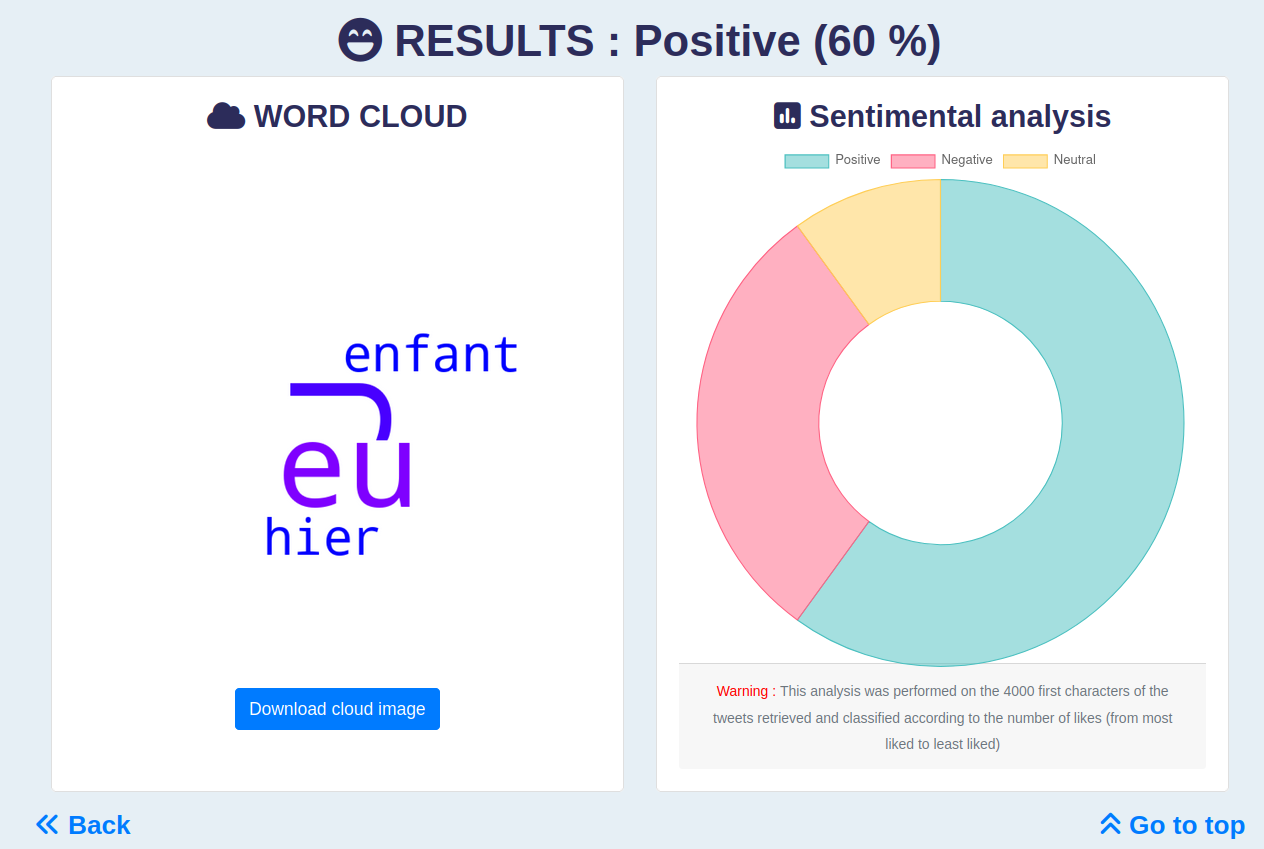
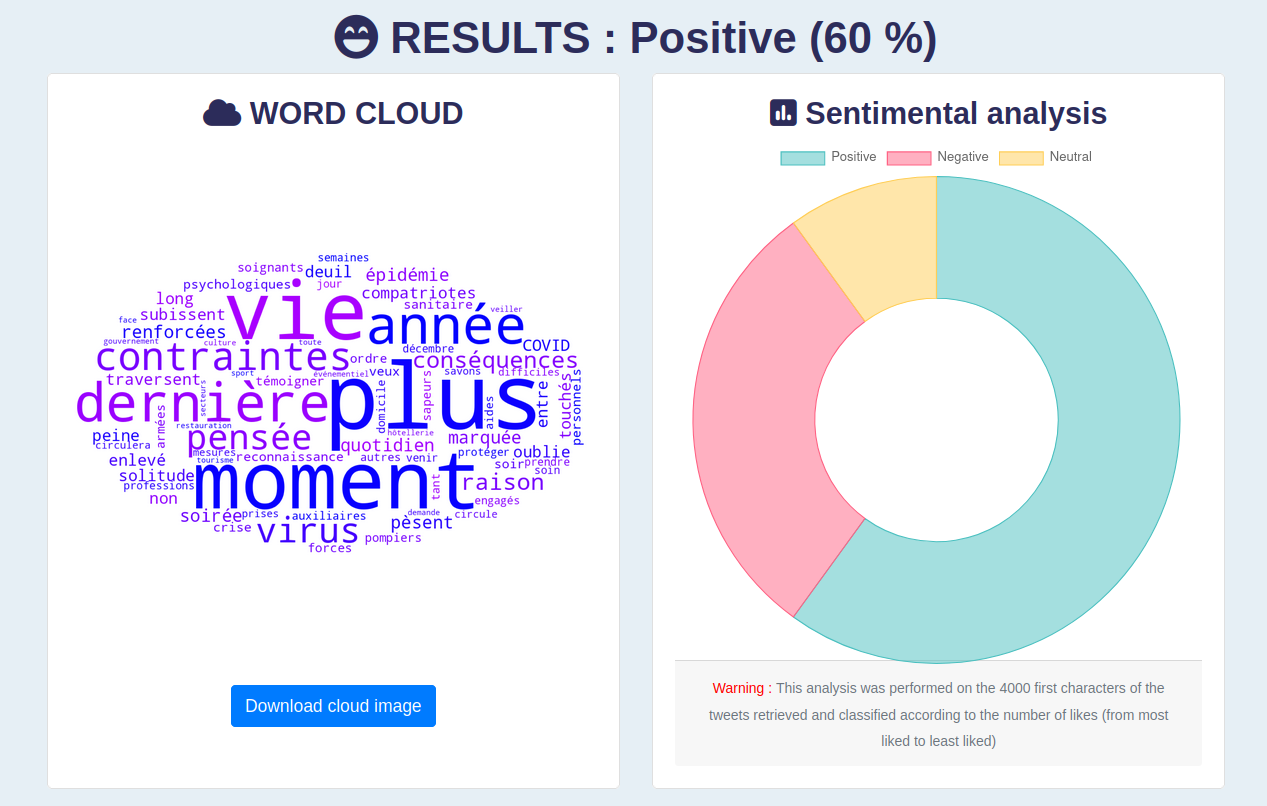
readme final

diff --git a/text_analysis/base/templates/about.html b/text_analysis/base/templates/about.html
@@ -26,10 +26,10 @@
 </p>
 <br>
 <p style="text-align:center;"> <h3>Emad Darwich</h3> </p> 
-<img src="{% static 'base/images/emad.jpg' %}" class="bd-placeholder-img rounded-circle" width="140" height="140" /> <br>
+<img src="{% static 'base/images/emad.png' %}" class="bd-placeholder-img rounded-circle" width="140" height="140" /> <br>
 <br>
 
-<p style="text-align:justify;"> Passionate about data analysis, new technologies and curious to understand how they can be how these can be applied in different fields, Emad 
+<p style="text-align:justify;"> Passionate about data analysis, new technologies and curious to understand how they can be applied in different fields, Emad 
     is specialized in spatial statistics and its spatial statistics and its applications in the epidemiological and environmental environmental fields. 
     His academic, professional and volunteer experiences have allowed him to acquire and volunteer experiences have given him a strong ability to present, 
     communicate and disseminate information in a way that is clear, effective and beneficial to end users.<br> <br>
@@ -42,7 +42,7 @@
 
 <br>
 <p style="text-align:center;"> <h3>Marion Studer</h3> </p> 
-<img src="{% static 'base/images/soccer.png' %}" class="bd-placeholder-img rounded-circle" width="140" height="140" /><br>
+<img src="{% static 'base/images/marion.png' %}" class="bd-placeholder-img rounded-circle" width="140" height="140" /><br>
 <br>
 
 <p style="text-align:justify;"> Passionate about exploring new subjects, research and studies in social sciences, her doctoral studies allowed her to 

diff --git a/text_analysis/base/templates/home.html b/text_analysis/base/templates/home.html
@@ -41,7 +41,7 @@
     <div class="col-lg-4">
       {% comment %} <svg class="bd-placeholder-img rounded-circle" width="140" height="140" xmlns="http://www.w3.org/2000/svg" role="img" aria-label="Placeholder: 140x140" preserveAspectRatio="xMidYMid slice" focusable="false"><title>Placeholder</title><rect width="100%" height="100%" fill="#777"></rect><text x="50%" y="50%" fill="#777" dy=".3em">140x140</text></svg> {% endcomment %}
       <img src="{% static 'base/images/url.jpg' %}" class="bd-placeholder-img rounded-circle" width="140" height="140" />
-      <h2 class="fw-normal">URL Text Analysis</h2>
+      <h2 class="fw-normal">URL text analysis</h2>
       <p style="text-align: justify;">In this application, you can paste an URL link (for example from an online media). Then an AI model analyzes and summarizes the content of the website page to give the general sentiment on the subject.</p>
       <p><a class="btn btn-secondary" href={% url 'upload_file' %}>View details »</a></p>
     </div><!-- /.col-lg-4 -->

diff --git a/text_analysis/base/templates/upload_file.html b/text_analysis/base/templates/upload_file.html
@@ -8,12 +8,17 @@
 
 <form action="upload_file_result">
     {% csrf_token %}
+
+    <h1 style="color:rgb(44, 44, 90); font-weight: 700;">
+      <i class="fa-brands fa-internet-explorer"></i> URL text analysis 
+    </h1>
+
     <div class="row g-2">
 
       <!-- all_words -->
         <div class="col-md">
           <div class="form-floating">
-            <label for="floatingInputGrid">URL : </label>
+            <label for="floatingInputGrid">Enter your URL</label>
             <input type="text" class="form-control" id="myFile" multiple onchange="myfunction()" placeholder="Ex: https://www.bfmtv.com/*" name="file" required>
             <p id = "demo"></p>
         </div>

diff --git a/text_analysis/templates/includes/header.html b/text_analysis/templates/includes/header.html
@@ -9,7 +9,7 @@
       <ul class="nav col-12 col-md-auto mb-2 justify-content-center mb-md-0">
         <li><a href="{% url 'tweeter_scrape' %}" class="nav-link px-2 link-secondary">Twitter_API</a></li>
         <li><a href="{% url 'your_text' %}" class="nav-link px-2 link-dark">Text_API</a></li>
-        <li><a href="{% url 'upload_file' %}" class="nav-link px-2 link-dark">Text_URL</a></li>
+        <li><a href="{% url 'upload_file' %}" class="nav-link px-2 link-dark">URL_Text_API</a></li>
         <!-- <li><a href="#" class="nav-link px-2 link-dark">Pricing</a></li> -->
         <li><a href="{% url 'about' %}" class="nav-link px-2 link-dark">About</a></li>
       </ul>

diff --git a/text_analysis/base/views.py b/text_analysis/base/views.py
@@ -499,6 +499,23 @@ from django.shortcuts import render
 def your_text(request):
     return render(request, 'your_text.html', {'YourTextForm' : YourTextForm})
 
+#Fonction pour générer le nuage de mots
+def get_word_cloud_your_text_your_url(stop_words, text_only, status):
+    mask = np.array(Image.open("../ressources/mask_cloud.png"))
+    mask[mask == 1] = 255
+    wordcloud = WordCloud(background_color = 'white', stopwords = stop_words, max_words = 75, mask=mask).generate(text_only)
+    if status == "Positive" or status == "Neutral":
+        fig = plt.figure(figsize=(30,30) , dpi=200) 
+        plt.imshow(wordcloud.recolor(color_func = couleur_blue))
+        plt.axis("off")
+        fig.tight_layout(pad=0, w_pad=0, h_pad=0)
+        fig.savefig('./base/static/base/images/mypic.png') 
+    else : 
+        fig = plt.figure(figsize=(30,30) , dpi=200) 
+        plt.imshow(wordcloud.recolor(color_func = couleur_red))
+        plt.axis("off")
+        fig.tight_layout(pad=0, w_pad=0, h_pad=0)
+        fig.savefig('./base/static/base/images/mypic.png')  
 
 def your_text_result(request):
     form = YourTextForm(request.POST)
@@ -536,7 +553,7 @@ def your_text_result(request):
         is_without_stop_words = text_without_stop_words(text,stoplist)
         if re.search('[a-zA-Z]', is_without_stop_words) != None:       # check if is_without_stop_words containes any letter from a to Z or from A to Z
             stop_words = our_get_stop_words(lang) #Get stop words with this language
-            get_word_cloud(stop_words, text, max_labels)
+            get_word_cloud_your_text_your_url(stop_words, text, max_labels)
         else : 
             return render(request, 'result_with_no_text.html', {'query': text})
 
@@ -614,7 +631,7 @@ def upload_file_result(request):
     is_without_stop_words = text_without_stop_words(text,stoplist)
     if re.search('[a-zA-Z]', is_without_stop_words) != None:       # check if is_without_stop_words containes any letter from a to Z or from A to Z
         stop_words = our_get_stop_words(lang) #Get stop words with this language
-        get_word_cloud(stop_words, text, max_labels)
+        get_word_cloud_your_text_your_url(stop_words, text, max_labels)
     else : 
         return render(request, 'result_with_no_text.html', {'query': text})
 

diff --git a/README.md b/README.md
@@ -2,7 +2,10 @@
 Text analysis
 </H1>
 
-Ce site internet permet de réaliser une analyse de sentiment de texte en utilisant trois applications. Pour cela, l'application utilise différents API mobilisant l'intelligence articielle. 
+This website helps to perform a text sentiment analysis using three applications. For this, the site uses different APIs mobilizing articial intelligence. 
+
+<u>Usage advice for APIs :</u><br>
+There is no limit (neither in number nor in date) of requests per day regarding the search for tweets or the sending of texts.However, you must create an [account](https://app.edenai.run/user/login?referral=sentiment-analysis-how-to) to make the analysis of feelings and inform the key obtained. The site then offers a credit of 10 dollars to be consumed according to the use.
 
 <H1 style="color:rgb(44, 44, 90)", align = "center">
 Twitter analysis
@@ -12,44 +15,81 @@ Twitter analysis
 <img src="./ressources/twiter_analysis_home.png" /> 
 </p>
 
-Pour cette application nous sollicitons notamment :
-- [Edenai](https://www.edenai.co/post/which-sentiment-analysis-api-to-choose-for-your-project) pour analyser la charge émotionnelle des tweets selectionnés
-- Le package [snscrape](https://github.com/JustAnotherArchivist/snscrape) pour opérer la requête sur twitter
-- Le package [stopwords](https://pypi.org/project/stop-words/) pour chercher les appax permettant de nettoyer le texte récolté. **Note: Nous avons amendé cette liste de nos propres mots** _N'hesitez pas à nous contacter si vous souhaitez ajouter d'autres mots_
-- Le package [word cloud](https://pypi.org/project/wordcloud/) pour afficher le nuage de mot afférent
+For this application we require :
+- [Edenai](https://www.edenai.co/post/which-sentiment-analysis-api-to-choose-for-your-project) to analyze the emotional charge of selected tweets
+- [Snscrape](https://github.com/JustAnotherArchivist/snscrape) to make the request on twitter
+- [Stopwords](https://pypi.org/project/stop-words/) to search for appax to clean the collected text. **Note: We have amended this list with our own words** _Don't hesitate to contact us if you wish to add other words_
+- [Word cloud](https://pypi.org/project/wordcloud/) to display the related word cloud
 
-Une fois la requête effectuée, notre application trie les tweets en priorisant les tweets les plus likés (puis les plus retweetés, puis les plus commentés) et renvoie deux pages possibles de résultat :
-- Si la recherche trouve au moins un tweet, le résultat est présenté dans la page `result.html`
-![result_page](./ressources/twiter_result.png)
+Once the query is done, our application sorts the tweets by prioritizing the most liked tweets (then the most retweeted, then the most commented) and returns two possible result pages :
+- If the search finds at least one tweet, the result is presented in `result.html`
+
 <p align="center"> 
 <img src="./ressources/twiter_result.png" /> 
 </p>
 
-- Si la recherche ne trouve pas de tweet, le résultat est présenté dans la page `result_with_no_text`
-![result_with_no_text_page](./ressources/result_with_no_text_page.png)
+- If the search doesn't find a tweet, the result is presented in `result_with_no_text`
 
-<u>Conseil d'utilisation pour l'API :</u><br>
-Il n'y a pas de limite (ni en nombre, ni en date) de requêtes par jour en ce qui concerne la recherche de tweets. Cependant, il faut créer un [compte](https://app.edenai.run/user/login?referral=sentiment-analysis-how-to) pour réaliser l'analyse de sentiments et renseigner la key obtenue. Le site propose alors un crédit de 10 dollars à consommer selon l'utilisation.
+<p align="center"> 
+<img src="./ressources/result_with_no_text_page.png" /> 
+</p>
+
 
 <H1 style="color:rgb(44, 44, 90)", align = "center">
 Your text analysis
 </H1>
 
-<p align = "center">
-![accueil](./ressources/your_text_home.png)
+<p align="center"> 
+<img src="./ressources/your_text_home.png" /> 
 </p>
 
-Pour cette application nous sollicitons notamment :
-- [Edenai](https://www.edenai.co/post/which-sentiment-analysis-api-to-choose-for-your-project) pour analyser la charge émotionnelle des tweets selectionnés
-- Le package [langid](https://pypi.org/project/langid/) pour détecter la langue du texte envoyé
-- Le package [stopwords](https://pypi.org/project/stop-words/) pour chercher les appax permettant de nettoyer le texte récolté. **Note: Nous avons amendé cette liste de nos propres mots** _N'hesitez pas à nous contacter si vous souhaitez ajouter d'autres mots_
-- Le package [word cloud](https://pypi.org/project/wordcloud/) pour afficher le nuage de mot afférent
+For this application we require :
+- [Edenai](https://www.edenai.co/post/which-sentiment-analysis-api-to-choose-for-your-project) to analyze the emotional charge of selected tweets
+- [Langid](https://pypi.org/project/langid/) to detect the language of the text sent
+- [Stopwords](https://pypi.org/project/stop-words/) to search for appax to clean the collected text. **Note: We have amended this list with our own words** _Don't hesitate to contact us if you wish to add other words_
+- [Word cloud](https://pypi.org/project/wordcloud/) to display the related word cloud
 
-Une fois la requête effectuée, notre application nettoie le texte, supprime les stowords et renvoie deux pages possibles de résultat :
-- Si le texte nettoyé contient au moins un caractère, le résultat est présenté dans la page `your_text_result.html`
-![result_page](./ressources/your_text_result.png)
-- Si le texte nettoyé contient zéro caractère, le résultat est présenté dans la page `result_with_no_text`
-![result_with_no_text_page](./ressources/your_text_error.png)
+Once the request is made, our application cleans the text, removes the stowords and returns two possible result pages :
+- If the cleaned text contains at least one character, the result is presented in `your_text_result.html`
+
+<p align="center"> 
+<img src="./ressources/your_text_result.png" /> 
+</p>
+
+- If the cleaned text contains zero characters, the result is presented in `result_with_no_text`
+
 <p align="center"> 
 <img src="./ressources/your_text_error.png" /> 
 </p>
+
+<H1 style="color:rgb(44, 44, 90)", align = "center">
+URL text analysis
+</H1>
+
+<p align="center"> 
+<img src="./ressources/url_home.png" /> 
+</p>
+
+For this application we require :
+- [Edenai](https://www.edenai.co/post/which-sentiment-analysis-api-to-choose-for-your-project) to analyze the emotional charge of selected tweets
+- [Langid](https://pypi.org/project/langid/) to detect the language of the text sent
+- [Stopwords](https://pypi.org/project/stop-words/) to search for appax to clean the collected text. **Note: We have amended this list with our own words** _Don't hesitate to contact us if you wish to add other words_
+- [Word cloud](https://pypi.org/project/wordcloud/) to display the related word cloud
+
+Once the URL link is sent, our application retrieves the text of the web page, cleans it, removes the stowords and returns two possible result pages :
+- If the cleaned text contains at least one character, the result is presented in `upload_file_result.html`
+
+<p align="center"> 
+<img src="./ressources/your_text_result.png" /> 
+</p>
+
+- If the cleaned text contains zero characters, the result is presented in `result_with_no_text`
+
+<p align="center"> 
+<img src="./ressources/result_with_no_text_page.png" /> 
+</p>
+
+<H3 style="color:rgb(255, 44, 44)">
+Warning :
+</H3> 
+The spider can not access some websites, including comments on the youtube site or sites requiring a login (eg email).
